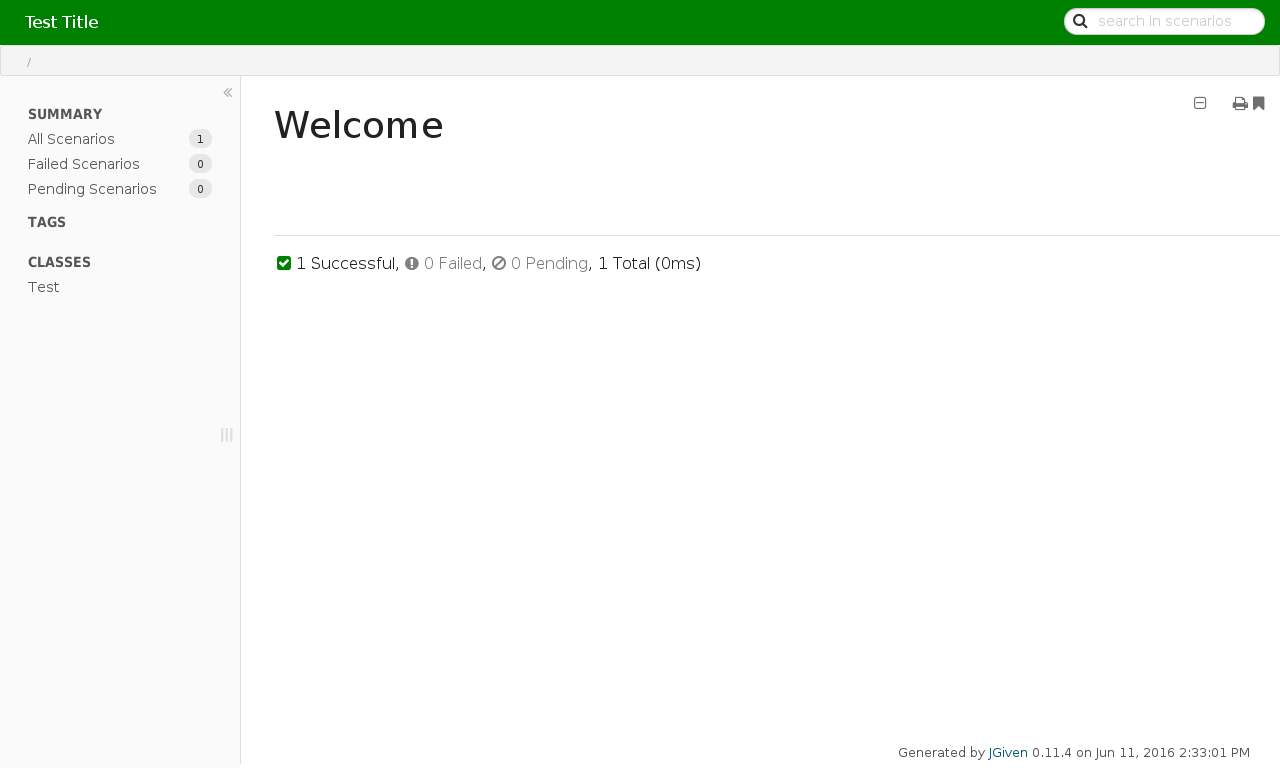
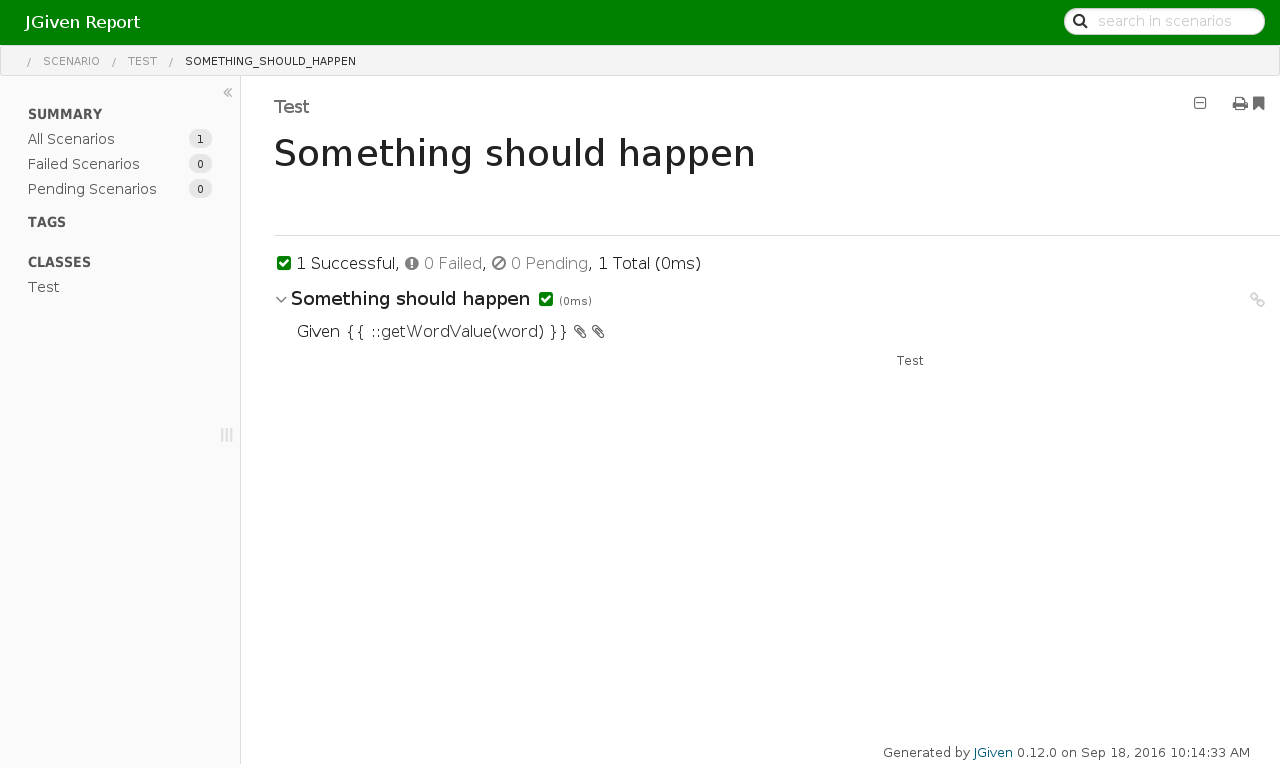
added generated jgiven report to gh-pages

diff --git a/jgiven-report/html5/data/data0.js b/jgiven-report/html5/data/data0.js
@@ -1,1 +1,1 @@
[2 lines of base64/hex data omitted]

diff --git a/jgiven-report/html5/data/tags.js b/jgiven-report/html5/data/tags.js
@@ -1,1 +1,1 @@
-jgivenReport.setTags({"tagTypeMap":{"Feature":{"type":"Feature","name":"Features","description":"","href":""},"FeatureCore":{"type":"FeatureCore","name":"Core Features","description":"","tags":["Feature"],"href":""},"FeatureCaseDiffs":{"type":"FeatureCaseDiffs","name":"Case Diffs","description":"In order to get a better overview over structurally different cases of a scenario\u003cbr\u003eAs a human,\u003cbr\u003eI want the differences highlighted in the generated report","tags":["FeatureCore"],"href":""},"FeatureReport":{"type":"FeatureReport","name":"Reporting","description":"JGiven can generate text and HTML reports. An AsciiDoc report is currently under development.","tags":["Feature"],"href":""},"FeatureTextReport":{"type":"FeatureTextReport","name":"Text Report","description":"Plain text reports can be generated","tags":["FeatureReport"],"href":""},"FeatureDataTables":{"type":"FeatureDataTables","name":"Data Tables","description":"In order to get a better overview over the different cases of a scenario\u003cbr\u003eAs a human,\u003cbr\u003eI want to have different cases represented as a data table","tags":["FeatureCore"],"href":""},"Issue":{"type":"Issue","description":"Scenarios of \u003ca href\u003d\u0027https://github.com/TNG/JGiven/issues/34\u0027\u003eIssue #34\u003c/a\u003e","prependType":true,"color":"orange","href":""},"FeatureTestFramework":{"type":"FeatureTestFramework","name":"Supported Test Frameworks","description":"JGiven can be used together with JUnit and TestNG","tags":["Feature"],"href":""},"FeatureJUnit":{"type":"FeatureJUnit","name":"JUnit","description":"Tests can be be executed with JUnit","tags":["FeatureTestFramework"],"href":""},"BrowserTest":{"type":"BrowserTest","description":"Tests with this tag use a browser for testing","color":"rgb(69, 158, 19)","href":""},"FeatureHtml5Report":{"type":"FeatureHtml5Report","name":"HTML5 Report","description":"In order to have an interactive JGiven report for non-developers\u003cbr\u003eAs a developer,\u003cbr\u003eI want that JGiven generates HTML5 reports","tags":["FeatureReport"],"href":""},"FeatureAttachments":{"type":"FeatureAttachments","name":"Attachments","description":"In order to get additional information about a step, like screenshots, for example\u003cbr\u003eAs a JGiven user,\u003cbr\u003eI want that steps can have attachments","tags":["FeatureCore"],"href":""},"FeatureTags":{"type":"FeatureTags","description":"Scenarios can be tagged with annotations","tags":["FeatureCore"],"href":""},"FeatureTagsWithCustomStyle":{"type":"FeatureTagsWithCustomStyle","name":"Tags with Custom Styles","description":"Tags can be arbitrarily styled with the \u0027style\u0027 attribute of the \u0027@IsTag\u0027 annotation. This tag shows how to apply such a custom style","style":"background-color: darkgreen; color: white; font-weight: bold","tags":["FeatureTags-Tags"],"href":""},"FeatureGerman":{"type":"FeatureGerman","name":"German Scenarios","description":"Scenarios can be written in German","tags":["FeatureCore"],"href":""},"FeatureTestNg":{"type":"FeatureTestNg","name":"TestNG","description":"Tests can be be executed with TestNG","tags":["FeatureTestFramework"],"href":""},"FeatureStepParameters":{"type":"FeatureStepParameters","name":"Step Parameters","description":"Steps can have parameters","tags":["FeatureCore"],"href":""},"FeatureAsciiDocReport":{"type":"FeatureAsciiDocReport","name":"AsciiDoc Report","description":"In order to easily combine hand-written documentation with JGiven scenarios\u003cbr\u003eAs a developer,\u003cbr\u003eI want that JGiven generates AsciiDoc reports","tags":["FeatureReport"],"href":""},"FeaturePending":{"type":"FeaturePending","name":"Pending Annotation","description":"As a good BDD practitioner,\u003cbr\u003eI want to write my scenarios before I start coding\u003cbr\u003eIn order to discuss them with business stakeholders","tags":["FeatureCore"],"href":""},"FeatureCaseDescriptions":{"type":"FeatureCaseDescriptions","name":"Case Descriptions","description":"Cases of parametrized scenarios can have custom descriptions by using the @CaseDescription annotation","tags":["FeatureCore"],"href":""}},"tags":{"Feature":{"tagType":"Feature"},"FeatureCore":{"tagType":"FeatureCore"},"FeatureCaseDiffs":{"tagType":"FeatureCaseDiffs"},"FeatureReport":{"tagType":"FeatureReport"},"FeatureTextReport":{"tagType":"FeatureTextReport"},"FeatureDataTables":{"tagType":"FeatureDataTables"},"Issue-#34":{"tagType":"Issue","value":"#34"},"Issue-#152":{"tagType":"Issue","value":"#152","description":"Scenarios of \u003ca href\u003d\u0027https://github.com/TNG/JGiven/issues/152\u0027\u003eIssue #152\u003c/a\u003e"},"Issue-#52":{"tagType":"Issue","value":"#52","description":"Scenarios of \u003ca href\u003d\u0027https://github.com/TNG/JGiven/issues/52\u0027\u003eIssue #52\u003c/a\u003e"},"Issue-#10":{"tagType":"Issue","value":"#10","description":"Scenarios of \u003ca href\u003d\u0027https://github.com/TNG/JGiven/issues/10\u0027\u003eIssue #10\u003c/a\u003e"},"Issue-#104":{"tagType":"Issue","value":"#104","description":"Scenarios of \u003ca href\u003d\u0027https://github.com/TNG/JGiven/issues/104\u0027\u003eIssue #104\u003c/a\u003e"},"FeatureTestFramework":{"tagType":"FeatureTestFramework"},"FeatureJUnit":{"tagType":"FeatureJUnit"},"BrowserTest":{"tagType":"BrowserTest"},"FeatureHtml5Report":{"tagType":"FeatureHtml5Report"},"Issue-#191":{"tagType":"Issue","value":"#191","description":"Scenarios of \u003ca href\u003d\u0027https://github.com/TNG/JGiven/issues/191\u0027\u003eIssue #191\u003c/a\u003e"},"FeatureAttachments":{"tagType":"FeatureAttachments"},"FeatureTags-Tags":{"tagType":"FeatureTags","value":"Tags"},"FeatureTagsWithCustomStyle":{"tagType":"FeatureTagsWithCustomStyle"},"Issue-#146":{"tagType":"Issue","value":"#146","description":"Scenarios of \u003ca href\u003d\u0027https://github.com/TNG/JGiven/issues/146\u0027\u003eIssue #146\u003c/a\u003e"},"Issue-#47":{"tagType":"Issue","value":"#47","description":"Scenarios of \u003ca href\u003d\u0027https://github.com/TNG/JGiven/issues/47\u0027\u003eIssue #47\u003c/a\u003e"},"Issue-#25":{"tagType":"Issue","value":"#25","description":"Scenarios of \u003ca href\u003d\u0027https://github.com/TNG/JGiven/issues/25\u0027\u003eIssue #25\u003c/a\u003e"},"Issue-#49":{"tagType":"Issue","value":"#49","description":"Scenarios of \u003ca href\u003d\u0027https://github.com/TNG/JGiven/issues/49\u0027\u003eIssue #49\u003c/a\u003e"},"FeatureGerman":{"tagType":"FeatureGerman"},"FeatureTestNg":{"tagType":"FeatureTestNg"},"Issue-#123":{"tagType":"Issue","value":"#123","description":"Scenarios of \u003ca href\u003d\u0027https://github.com/TNG/JGiven/issues/123\u0027\u003eIssue #123\u003c/a\u003e"},"Issue-#1":{"tagType":"Issue","value":"#1","description":"Scenarios of \u003ca href\u003d\u0027https://github.com/TNG/JGiven/issues/1\u0027\u003eIssue #1\u003c/a\u003e"},"FeatureStepParameters":{"tagType":"FeatureStepParameters"},"Issue-#163":{"tagType":"Issue","value":"#163","description":"Scenarios of \u003ca href\u003d\u0027https://github.com/TNG/JGiven/issues/163\u0027\u003eIssue #163\u003c/a\u003e"},"Issue-#32":{"tagType":"Issue","value":"#32","description":"Scenarios of \u003ca href\u003d\u0027https://github.com/TNG/JGiven/issues/32\u0027\u003eIssue #32\u003c/a\u003e"},"FeatureAsciiDocReport":{"tagType":"FeatureAsciiDocReport"},"FeaturePending":{"tagType":"FeaturePending"},"Issue-#4":{"tagType":"Issue","value":"#4","description":"Scenarios of \u003ca href\u003d\u0027https://github.com/TNG/JGiven/issues/4\u0027\u003eIssue #4\u003c/a\u003e"},"FeatureCaseDescriptions":{"tagType":"FeatureCaseDescriptions"}}} );
+jgivenReport.setTags({"tagTypeMap":{"Feature":{"type":"Feature","name":"Features","description":"","href":""},"FeatureCore":{"type":"FeatureCore","name":"Core Features","description":"","tags":["Feature"],"href":""},"FeatureCaseDiffs":{"type":"FeatureCaseDiffs","name":"Case Diffs","description":"In order to get a better overview over structurally different cases of a scenario\u003cbr\u003eAs a human,\u003cbr\u003eI want the differences highlighted in the generated report","tags":["FeatureCore"],"href":""},"FeatureReport":{"type":"FeatureReport","name":"Reporting","description":"JGiven can generate text and HTML reports. An AsciiDoc report is currently under development.","tags":["Feature"],"href":""},"FeatureTextReport":{"type":"FeatureTextReport","name":"Text Report","description":"Plain text reports can be generated","tags":["FeatureReport"],"href":""},"FeatureDataTables":{"type":"FeatureDataTables","name":"Data Tables","description":"In order to get a better overview over the different cases of a scenario\u003cbr\u003eAs a human,\u003cbr\u003eI want to have different cases represented as a data table","tags":["FeatureCore"],"href":""},"Issue":{"type":"Issue","description":"Scenarios of \u003ca href\u003d\u0027https://github.com/TNG/JGiven/issues/34\u0027\u003eIssue #34\u003c/a\u003e","prependType":true,"color":"orange","href":""},"FeatureTestFramework":{"type":"FeatureTestFramework","name":"Supported Test Frameworks","description":"JGiven can be used together with JUnit and TestNG","tags":["Feature"],"href":""},"FeatureJUnit":{"type":"FeatureJUnit","name":"JUnit","description":"Tests can be be executed with JUnit","tags":["FeatureTestFramework"],"href":""},"BrowserTest":{"type":"BrowserTest","description":"Tests with this tag use a browser for testing","color":"rgb(69, 158, 19)","href":""},"FeatureHtml5Report":{"type":"FeatureHtml5Report","name":"HTML5 Report","description":"In order to have an interactive JGiven report for non-developers\u003cbr\u003eAs a developer,\u003cbr\u003eI want that JGiven generates HTML5 reports","tags":["FeatureReport"],"href":""},"FeatureAttachments":{"type":"FeatureAttachments","name":"Attachments","description":"In order to get additional information about a step, like screenshots, for example\u003cbr\u003eAs a JGiven user,\u003cbr\u003eI want that steps can have attachments","tags":["FeatureCore"],"href":""},"FeatureTags":{"type":"FeatureTags","description":"Scenarios can be tagged with annotations","tags":["FeatureCore"],"href":""},"FeatureTagsWithCustomStyle":{"type":"FeatureTagsWithCustomStyle","name":"Tags with Custom Styles","description":"Tags can be arbitrarily styled with the \u0027style\u0027 attribute of the \u0027@IsTag\u0027 annotation. This tag shows how to apply such a custom style","style":"background-color: darkgreen; color: white; font-weight: bold","tags":["FeatureTags-Tags"],"href":""},"FeatureGerman":{"type":"FeatureGerman","name":"German Scenarios","description":"Scenarios can be written in German","tags":["FeatureCore"],"href":""},"FeatureTestNg":{"type":"FeatureTestNg","name":"TestNG","description":"Tests can be be executed with TestNG","tags":["FeatureTestFramework"],"href":""},"FeatureStepParameters":{"type":"FeatureStepParameters","name":"Step Parameters","description":"Steps can have parameters","tags":["FeatureCore"],"href":""},"FeatureAsciiDocReport":{"type":"FeatureAsciiDocReport","name":"AsciiDoc Report","description":"In order to easily combine hand-written documentation with JGiven scenarios\u003cbr\u003eAs a developer,\u003cbr\u003eI want that JGiven generates AsciiDoc reports","tags":["FeatureReport"],"href":""},"FeaturePending":{"type":"FeaturePending","name":"Pending Annotation","description":"As a good BDD practitioner,\u003cbr\u003eI want to write my scenarios before I start coding\u003cbr\u003eIn order to discuss them with business stakeholders","tags":["FeatureCore"],"href":""},"FeatureCaseDescriptions":{"type":"FeatureCaseDescriptions","name":"Case Descriptions","description":"Cases of parametrized scenarios can have custom descriptions by using the @CaseDescription annotation","tags":["FeatureCore"],"href":""}},"tags":{"Feature":{"tagType":"Feature"},"FeatureCore":{"tagType":"FeatureCore"},"FeatureCaseDiffs":{"tagType":"FeatureCaseDiffs"},"FeatureReport":{"tagType":"FeatureReport"},"FeatureTextReport":{"tagType":"FeatureTextReport"},"FeatureDataTables":{"tagType":"FeatureDataTables"},"Issue-#34":{"tagType":"Issue","value":"#34"},"Issue-#152":{"tagType":"Issue","value":"#152","description":"Scenarios of \u003ca href\u003d\u0027https://github.com/TNG/JGiven/issues/152\u0027\u003eIssue #152\u003c/a\u003e"},"Issue-#52":{"tagType":"Issue","value":"#52","description":"Scenarios of \u003ca href\u003d\u0027https://github.com/TNG/JGiven/issues/52\u0027\u003eIssue #52\u003c/a\u003e"},"Issue-#10":{"tagType":"Issue","value":"#10","description":"Scenarios of \u003ca href\u003d\u0027https://github.com/TNG/JGiven/issues/10\u0027\u003eIssue #10\u003c/a\u003e"},"Issue-#104":{"tagType":"Issue","value":"#104","description":"Scenarios of \u003ca href\u003d\u0027https://github.com/TNG/JGiven/issues/104\u0027\u003eIssue #104\u003c/a\u003e"},"FeatureTestFramework":{"tagType":"FeatureTestFramework"},"FeatureJUnit":{"tagType":"FeatureJUnit"},"BrowserTest":{"tagType":"BrowserTest"},"FeatureHtml5Report":{"tagType":"FeatureHtml5Report"},"Issue-#191":{"tagType":"Issue","value":"#191","description":"Scenarios of \u003ca href\u003d\u0027https://github.com/TNG/JGiven/issues/191\u0027\u003eIssue #191\u003c/a\u003e"},"FeatureAttachments":{"tagType":"FeatureAttachments"},"Issue-#226":{"tagType":"Issue","value":"#226","description":"Scenarios of \u003ca href\u003d\u0027https://github.com/TNG/JGiven/issues/226\u0027\u003eIssue #226\u003c/a\u003e"},"FeatureTags-Tags":{"tagType":"FeatureTags","value":"Tags"},"FeatureTagsWithCustomStyle":{"tagType":"FeatureTagsWithCustomStyle"},"Issue-#146":{"tagType":"Issue","value":"#146","description":"Scenarios of \u003ca href\u003d\u0027https://github.com/TNG/JGiven/issues/146\u0027\u003eIssue #146\u003c/a\u003e"},"Issue-#47":{"tagType":"Issue","value":"#47","description":"Scenarios of \u003ca href\u003d\u0027https://github.com/TNG/JGiven/issues/47\u0027\u003eIssue #47\u003c/a\u003e"},"Issue-#25":{"tagType":"Issue","value":"#25","description":"Scenarios of \u003ca href\u003d\u0027https://github.com/TNG/JGiven/issues/25\u0027\u003eIssue #25\u003c/a\u003e"},"Issue-#49":{"tagType":"Issue","value":"#49","description":"Scenarios of \u003ca href\u003d\u0027https://github.com/TNG/JGiven/issues/49\u0027\u003eIssue #49\u003c/a\u003e"},"FeatureGerman":{"tagType":"FeatureGerman"},"FeatureTestNg":{"tagType":"FeatureTestNg"},"Issue-#123":{"tagType":"Issue","value":"#123","description":"Scenarios of \u003ca href\u003d\u0027https://github.com/TNG/JGiven/issues/123\u0027\u003eIssue #123\u003c/a\u003e"},"Issue-#1":{"tagType":"Issue","value":"#1","description":"Scenarios of \u003ca href\u003d\u0027https://github.com/TNG/JGiven/issues/1\u0027\u003eIssue #1\u003c/a\u003e"},"FeatureStepParameters":{"tagType":"FeatureStepParameters"},"Issue-#163":{"tagType":"Issue","value":"#163","description":"Scenarios of \u003ca href\u003d\u0027https://github.com/TNG/JGiven/issues/163\u0027\u003eIssue #163\u003c/a\u003e"},"Issue-#32":{"tagType":"Issue","value":"#32","description":"Scenarios of \u003ca href\u003d\u0027https://github.com/TNG/JGiven/issues/32\u0027\u003eIssue #32\u003c/a\u003e"},"FeatureAsciiDocReport":{"tagType":"FeatureAsciiDocReport"},"FeaturePending":{"tagType":"FeaturePending"},"Issue-#4":{"tagType":"Issue","value":"#4","description":"Scenarios of \u003ca href\u003d\u0027https://github.com/TNG/JGiven/issues/4\u0027\u003eIssue #4\u003c/a\u003e"},"FeatureCaseDescriptions":{"tagType":"FeatureCaseDescriptions"}}} );

diff --git a/jgiven-report/html5/index.html b/jgiven-report/html5/index.html
@@ -61,9 +61,9 @@
 
 
 <script type="text/ng-template" id="step_template.html">
-  <span aria-haspopup="{{ ::step.extendedDescription ? 'true' : 'false'"
-        class="{{ ::step.extendedDescription ? 'has-tip' : '' }}"
-        tooltip-html-unsafe="{{ ::step.extendedDescription }}"
+  <span aria-haspopup="{{ ::(step.extendedDescription || step.comment) ? 'true' : 'false'"
+        class="{{ ::(step.extendedDescription || step.comment) ? 'has-tip' : '' }}"
+        tooltip-html-unsafe="{{ ::step.extendedDescription }}{{ ::(step.extendedDescription && step.comment) ? '<br />' : '' }}{{ ::step.comment }}"
         tooltip-popup-delay="250">
     <span
         class="word {{ ::scenario.executionStatus !== 'SUCCESS' ? step.status : ''}} {{ ::word.isDifferent ? 'diff' : ''}}"
@@ -74,8 +74,9 @@
 
       <span
           ng-if="!(scenario.casesAsTable && word.argumentInfo.parameterName) && !word.argumentInfo.dataTable"
-          class="{{word.argumentInfo ? 'argument' : ''}} {{ word.value.indexOf('\n') > -1 ? 'multiline' : ''}}"
-          >{{ ::word.argumentInfo.formattedValue || word.value }}</span> <!-- do not change formatting here, it is important for multiline values -->
+          class="{{word.argumentInfo ? 'argument' : ''}} {{ getWordValue(word).indexOf('\n') > -1 ? 'multiline' : ''}}"
+      >{{ ::getWordValue(word) }}</span>
+      <!-- do not change formatting here, it is important for multiline values -->
       <table class="table-value" ng-if="word.argumentInfo.dataTable">
         <tr bindonce ng-repeat="row in word.argumentInfo.dataTable.data">
           <td class="{{ isHeaderCell($parent.$index, $index, word.argumentInfo.dataTable.headerType) ? 'header-cell' : '' }}"
@@ -86,22 +87,26 @@
 
     </span>
       <span ng-repeat-end></span>
-    <div ng-if="step.attachment && step.attachment.showDirectly">
-      <img class="direct-image" ng-src="data/{{ step.attachment.value }}"
-           alt="{{ step.attachment.title }}"/>
-    </div>
+    <span bindonce ng-repeat="attachment in step.attachments">
+      <div ng-if="attachment.showDirectly">
+        <img class="direct-image" ng-src="data/{{ attachment.value }}"
+             alt="{{ attachment.title }}"/>
+      </div>
+    </span>
   </span>
   <span bindonce ng-repeat="scenarioCase in scenario.scenarioCases"
         ng-init="step = scenarioCase.steps[$parent.$index]">
-          <span ng-if="step.attachment && !step.attachment.showDirectly && (scenario.casesAsTable || scenarioCase.caseNr === case.caseNr )">
-            <span aria-haspopup="{{ step.attachment.title ? 'true' : 'false'"
-                  class="{{ step.attachment.title ? 'has-tip' : '' }}"
-                  tooltip-html-unsafe="{{ step.attachment.title }}"
-                  tooltip-popup-delay="250">
-              <a target="_blank" href="data/{{ step.attachment.value }}">
-                <i class="fa fa-paperclip"><span class="attachment-index"
-                                                 ng-if="scenario.scenarioCases.length > 1 && scenario.casesAsTable">{{ scenarioCase.caseNr }}</span></i>
-              </a>
+          <span bindonce ng-repeat="attachment in step.attachments">
+            <span ng-if="!attachment.showDirectly && (scenario.casesAsTable || scenarioCase.caseNr === case.caseNr )">
+              <span aria-haspopup="{{ attachment.title ? 'true' : 'false'"
+                    class="{{ attachment.title ? 'has-tip' : '' }}"
+                    tooltip-html-unsafe="{{ attachment.title }}"
+                    tooltip-popup-delay="250">
+                <a target="_blank" href="data/{{ attachment.value }}">
+                  <i class="fa fa-paperclip"><span class="attachment-index"
+                                                   ng-if="scenario.scenarioCases.length > 1 && scenario.casesAsTable">{{ scenarioCase.caseNr }}</span></i>
+                </a>
+              </span>
             </span>
           </span>
   </span>
@@ -668,7 +673,7 @@
 
         <div class="footer-bottom" ng-if="!currentPage.embed">
           <div class="small-12 columns">
-            Generated by <a href="http://jgiven.org">JGiven</a> 0.11.4 on
+            Generated by <a href="http://jgiven.org">JGiven</a> 0.12.0 on
             {{metaData.created}}
           </div>
         </div>

diff --git a/jgiven-report/html5/lib/tagService.js b/jgiven-report/html5/lib/tagService.js
@@ -31,7 +31,7 @@ jgivenReportApp.factory('tagService', ['dataService', function (dataService) {
    * where a tag entry contains the tag definition and the list of scenarios
    * that are tagged with that tag
    */
-  function getTagScenarioMap(scenarios) {
+  function getTagScenarioMap (scenarios) {
     var tagScenarioMap = {};
     _.forEach(scenarios, function (testCase) {
       _.forEach(testCase.scenarios, function (scenario) {
@@ -43,7 +43,7 @@ jgivenReportApp.factory('tagService', ['dataService', function (dataService) {
           var tag = addEntry(tagId).tag;
           scenario.tags.push(tag);
 
-          function addEntry(tagId) {
+          function addEntry (tagId) {
             var tag = getTagByTagId(tagId);
             var tagKey = getTagKey(tag);
             var tagEntry = tagScenarioMap[tagKey];
@@ -72,7 +72,7 @@ jgivenReportApp.factory('tagService', ['dataService', function (dataService) {
     return tagScenarioMap;
   }
 
-  function getRootTags() {
+  function getRootTags () {
     if (!rootTags) {
       rootTags = calculateRootTags();
     }
@@ -83,8 +83,10 @@ jgivenReportApp.factory('tagService', ['dataService', function (dataService) {
    * Builds up a hierarchy of tag nodes that is shown in the
    * navigation and returns the list of root nodes
    */
-  function calculateRootTags() {
+  function calculateRootTags () {
     _.forEach(_.values(tagScenarioMap), function (tagEntry) {
+      if (tagEntry.tag.hideInNav) return;
+
       var tagNode = getTagNode(tagEntry);
       var name = getTagName(tagEntry.tag);
       var nameNode = tagNameMap[name];
@@ -116,7 +118,7 @@ jgivenReportApp.factory('tagService', ['dataService', function (dataService) {
       });
 
 
-    function getTagNode(tagEntry) {
+    function getTagNode (tagEntry) {
       var tag = tagEntry.tag;
       var key = getTagKey(tag);
       var tagNode = tagNodeMap[key];
@@ -135,7 +137,7 @@ jgivenReportApp.factory('tagService', ['dataService', function (dataService) {
       return tagNode;
     }
 
-    function createTagNode(tagEntry) {
+    function createTagNode (tagEntry) {
       var tag = tagEntry.tag;
       var scenarios = tagEntry.scenarios;
       var node = createNode(tagToString(tag));
@@ -161,7 +163,7 @@ jgivenReportApp.factory('tagService', ['dataService', function (dataService) {
      * A name node is a pseudo tag node that
      * has as sub nodes all tags with the same name
      */
-    function createNameNode(name) {
+    function createNameNode (name) {
       var node = createNode(name);
 
       node.url = function () {
@@ -183,7 +185,7 @@ jgivenReportApp.factory('tagService', ['dataService', function (dataService) {
       return node;
     }
 
-    function createNode(name) {
+    function createNode (name) {
       var subTags = [];
       return {
 
@@ -218,26 +220,26 @@ jgivenReportApp.factory('tagService', ['dataService', function (dataService) {
     }
   }
 
-  function getScenariosByTag(tag) {
+  function getScenariosByTag (tag) {
     return tagScenarioMap[getTagKey(tag)].scenarios;
   }
 
-  function getTagByKey(tagKey) {
+  function getTagByKey (tagKey) {
     var tagEntry = tagScenarioMap[tagKey];
     return tagEntry && tagEntry.tag;
   }
 
-  function getTagNameNode(name) {
+  function getTagNameNode (name) {
     return tagNameMap[name];
   }
 
-  function getTagByTagId(tagId) {
+  function getTagByTagId (tagId) {
     var tagInstance = dataService.getTagFile().tags[tagId];
     var tagType = dataService.getTagFile().tagTypeMap[tagInstance.tagType];
     var tag = Object.create(tagType);
     tag.value = tagInstance.value;
     if (tagInstance.description) {
-    	tag.description = tagInstance.description;
+      tag.description = tagInstance.description;
     }
     if (tagInstance.href) {
       tag.href = tagInstance.href;

diff --git a/jgiven-report/html5/lib/reportCtrl.js b/jgiven-report/html5/lib/reportCtrl.js
@@ -522,6 +522,7 @@ jgivenReportApp.controller('JGivenReportCtrl', function ($scope, $rootScope, $do
   }
 
   $scope.nanosToReadableUnit = nanosToReadableUnit;
+  $scope.getWordValue = getWordValue;
 
   $scope.tagIdToString = function tagIdToString (tagId) {
     var tag = tagService.getTagByTagId(tagId);

diff --git a/jgiven-report/html5/lib/util.js b/jgiven-report/html5/lib/util.js
@@ -56,6 +56,10 @@ function undefinedOrEmpty (array) {
   return !array || array.length === 0;
 }
 
+function getWordValue(word) {
+  return word.argumentInfo.formattedValue || word.value
+}
+
 function getTagName (tag) {
   return tag.name ? tag.name : tag.type;
 }

diff --git a/jgiven-report/html5/data/metaData.js b/jgiven-report/html5/data/metaData.js
@@ -1,1 +1,1 @@
-jgivenReport.setMetaData({"created":"Jun 11, 2016 2:33:11 PM","title":"JGiven Report","data":["data0.js"]} );
+jgivenReport.setMetaData({"created":"Sep 18, 2016 10:14:36 AM","title":"JGiven Report","data":["data0.js"]} );
